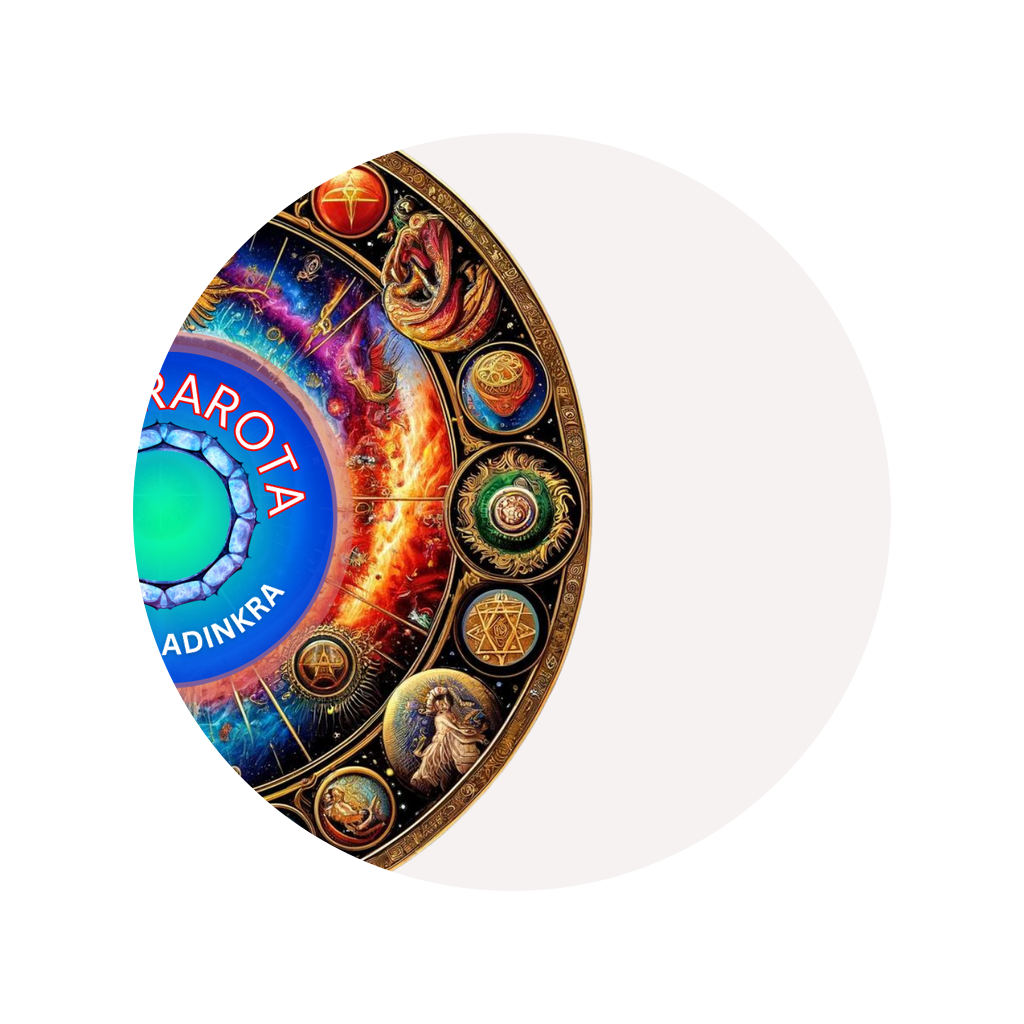
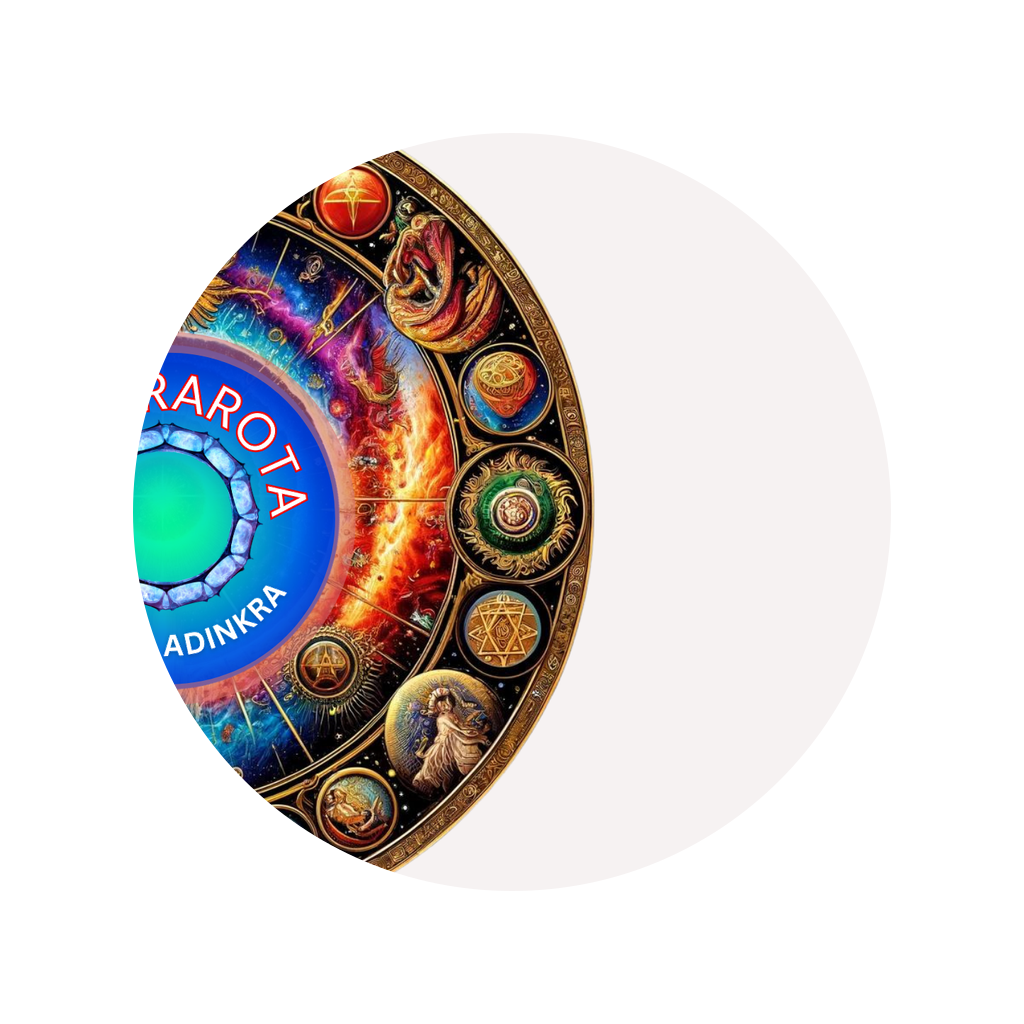
Align hero wheels to shared flex center anchor

Changed region(s): [[0.125, 0.1562, 0.5938, 0.875]]

diff --git a/components/hero-section.tsx b/components/hero-section.tsx
@@ -167,7 +167,7 @@ export function HeroSection({ onExplore, onReading, onSpinCycle }: HeroSectionPr
               transition={{ duration: 3, repeat: Infinity, ease: "easeInOut", delay: 1 }}
             />
             
-            {/* Levitating Portal Wheels — shared center anchor, separate spin layers */}
+            {/* Levitating Portal Wheels — both layers anchored to the same center point */}
             <motion.div
               className="absolute inset-0 overflow-hidden rounded-full"
               animate={{ y: [-6, 6, -6] }}
@@ -177,9 +177,9 @@ export function HeroSection({ onExplore, onReading, onSpinCycle }: HeroSectionPr
               }}
             >
               {/* Back wheel — 33% larger, clockwise */}
-              <div className="absolute left-1/2 top-1/2 aspect-square w-[133%] -translate-x-1/2 -translate-y-1/2">
+              <div className="absolute inset-0 flex items-center justify-center">
                 <motion.div
-                  className="relative size-full"
+                  className="relative aspect-square w-[133%] max-w-none shrink-0"
                   style={{ originX: "50%", originY: "50%" }}
                   animate={{ rotate: 360 }}
                   transition={{ duration: 90, repeat: Infinity, ease: "linear" }}
@@ -188,16 +188,16 @@ export function HeroSection({ onExplore, onReading, onSpinCycle }: HeroSectionPr
                     src="/images/portal-wheel-circle.png"
                     alt=""
                     fill
-                    className="object-contain"
+                    className="object-contain object-center"
                     aria-hidden
                   />
                 </motion.div>
               </div>
 
               {/* Front wheel — smaller, see-through, counter-clockwise */}
-              <div className="absolute left-1/2 top-1/2 aspect-square w-[82%] -translate-x-1/2 -translate-y-1/2 opacity-70">
+              <div className="absolute inset-0 flex items-center justify-center">
                 <motion.div
-                  className="relative size-full"
+                  className="relative aspect-square w-[82%] max-w-none shrink-0 opacity-70"
                   style={{
                     originX: "50%",
                     originY: "50%",
@@ -210,7 +210,7 @@ export function HeroSection({ onExplore, onReading, onSpinCycle }: HeroSectionPr
                     src="/images/portal-wheel-circle.png"
                     alt="ADINKRAROTA - Tarot + Adinkra Portal"
                     fill
-                    className="object-contain"
+                    className="object-contain object-center"
                     priority
                   />
                 </motion.div>
